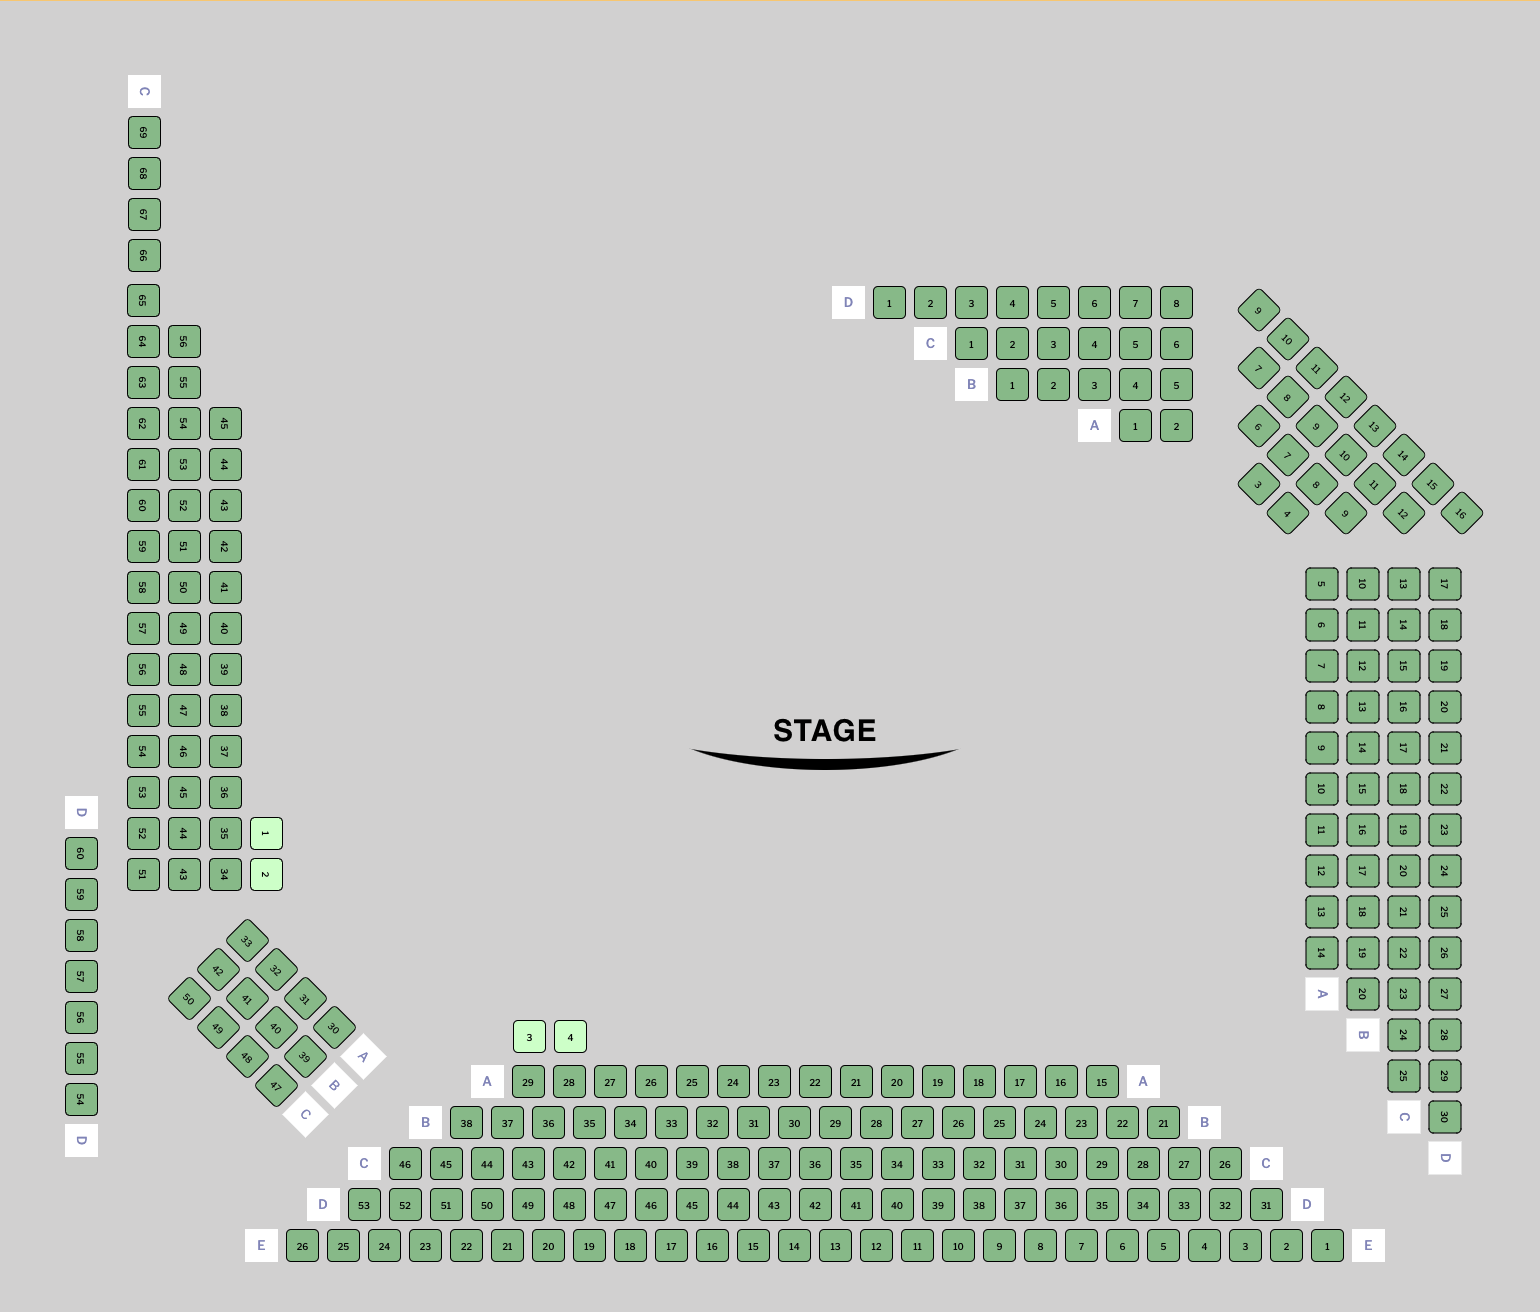
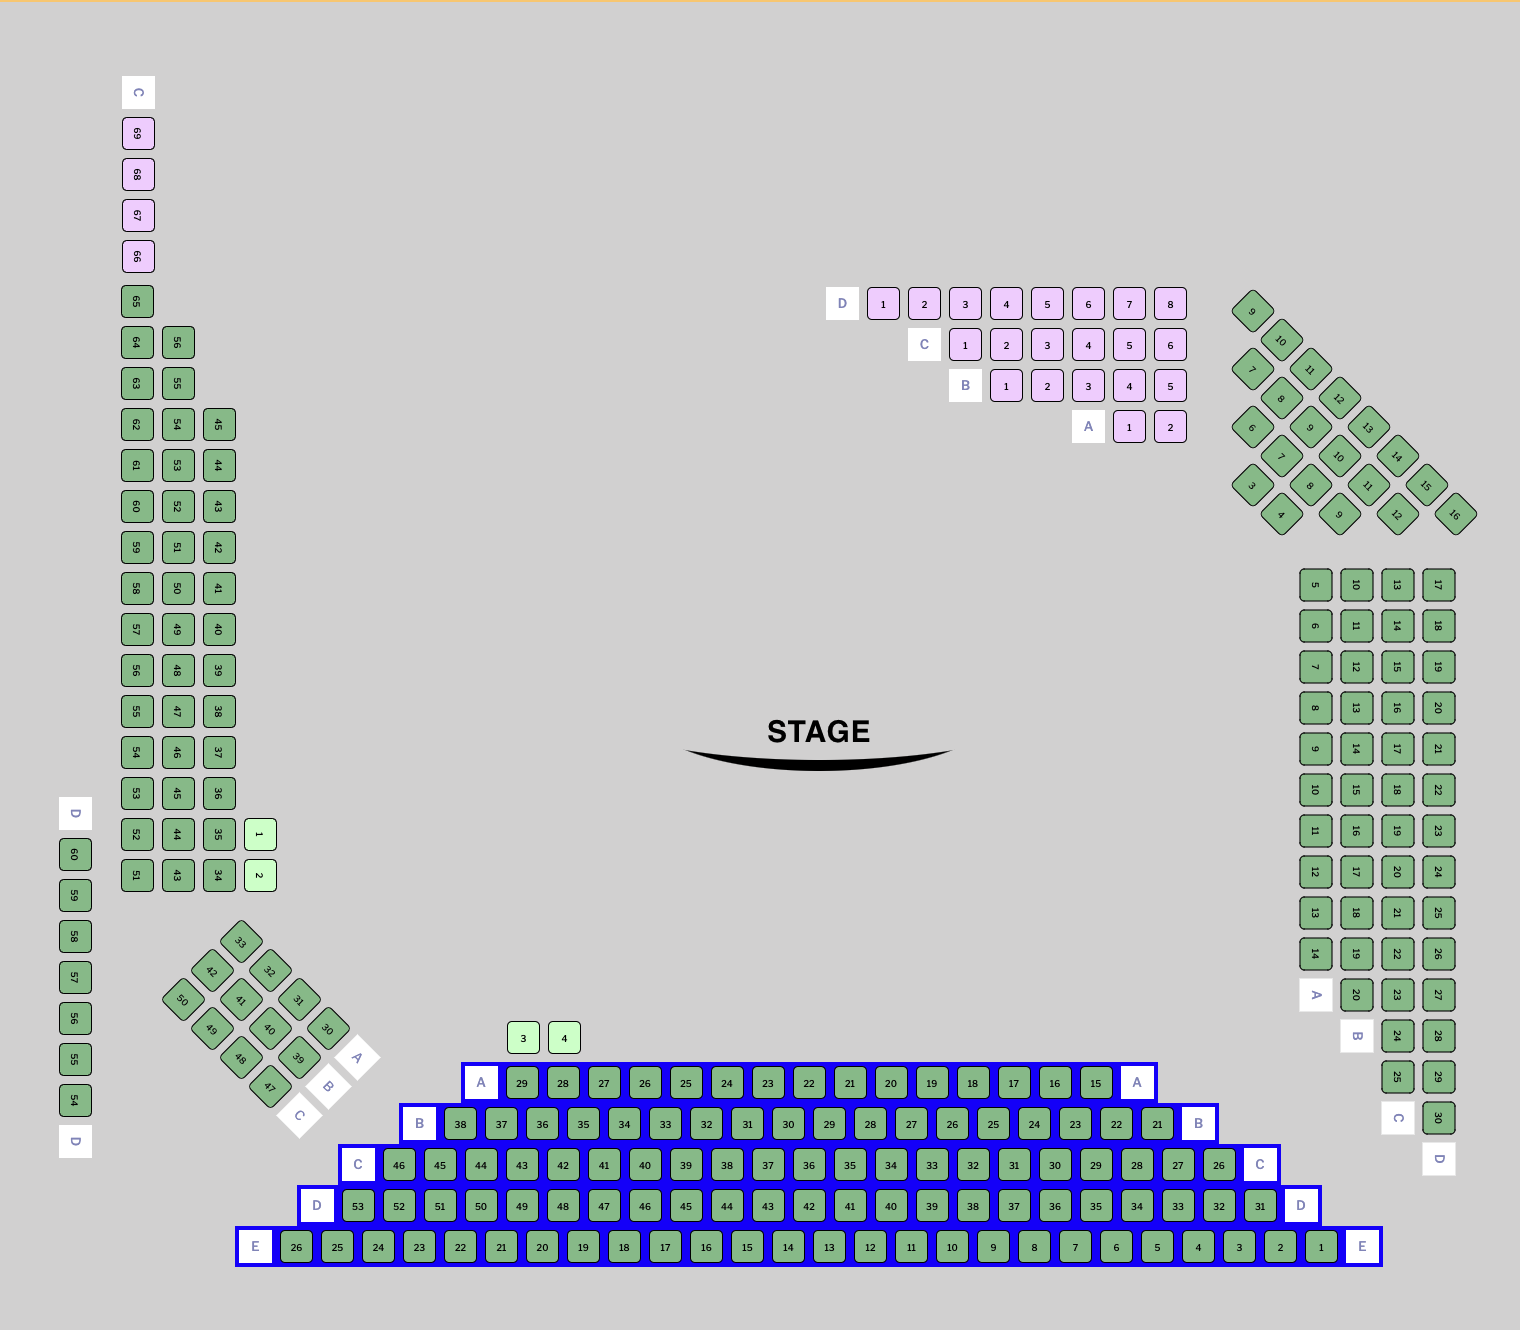
updated venues

Changed region(s): [[0.0309, 0.0625, 0.9276, 0.9688], [0.5257, 0.2188, 0.9895, 0.9062], [0.4638, 0.5312, 0.6184, 0.5938]]

diff --git a/Completed/25666.html b/Completed/25666.html
@@ -35,7 +35,7 @@
               <div
                 align="center"
                 class="last-cell adjust rotate90R"
-                style="position: relative; left: 700px; top: 120px"
+                style="position: relative; left: 550px; top: 120px"
               >
                 {{{ sectionsMarkup.40285 }}}
               </div>
@@ -44,7 +44,7 @@
               <div
                 align="left"
                 class="last-cell adjust rotate90R"
-                style="position: relative; left: 437px; bottom: 70px"
+                style="position: relative; left: 287px; bottom: 70px"
               >
                 {{{ sectionsMarkup.40286 }}}
               </div>
@@ -53,7 +53,7 @@
               <div
                 align="left"
                 class="last-cell adjust rotate90R"
-                style="position: relative; left: 150px; bottom: 130px"
+                style="position: relative; bottom: 130px"
               >
                 {{{ sectionsMarkup.40287 }}}
               </div>
@@ -64,7 +64,7 @@
               <div
                 align="center"
                 class="adjust rotate45R"
-                style="position: relative; z-index: 0; left: 735px; top: 290px"
+                style="position: relative; z-index: 0; left: 580px; top: 290px"
               >
                 {{{ sectionsMarkupNoRowNames.40288 }}}
               </div>
@@ -187,7 +187,7 @@
               <div
                 class="first-cell"
                 align="left"
-                style="position: relative; top: 168px; right: 280px"
+                style="position: relative; top: 168px; right: 263px"
               >
                 {{{ sectionsMarkup.40294 }}}
               </div>

diff --git a/Completed/29150.html b/Completed/29150.html
@@ -10,6 +10,11 @@
     display: none;
     visibility: hidden;
   }
+
+  .row-background > div > table > tbody > tr,
+  .row-background > div > table > tr {
+    background-color: blue;
+  }
 </style>
 
 <table width="100%" border="0" cellspacing="0" cellpadding="0" align="center">
@@ -132,6 +137,7 @@
           <tr>
             <td>
               <div
+                class="row-background"
                 align="center"
                 style="position: relative; top: 482px; right: 160px; z-index: 0"
               >
